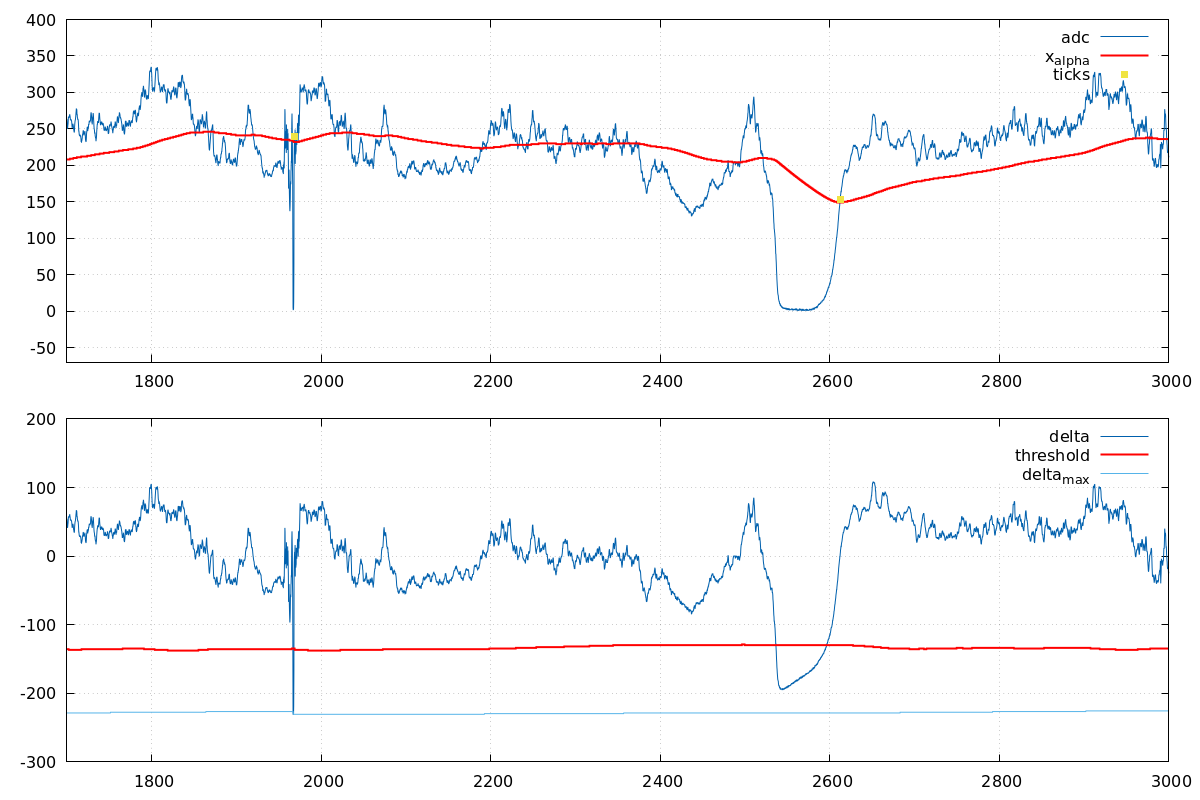
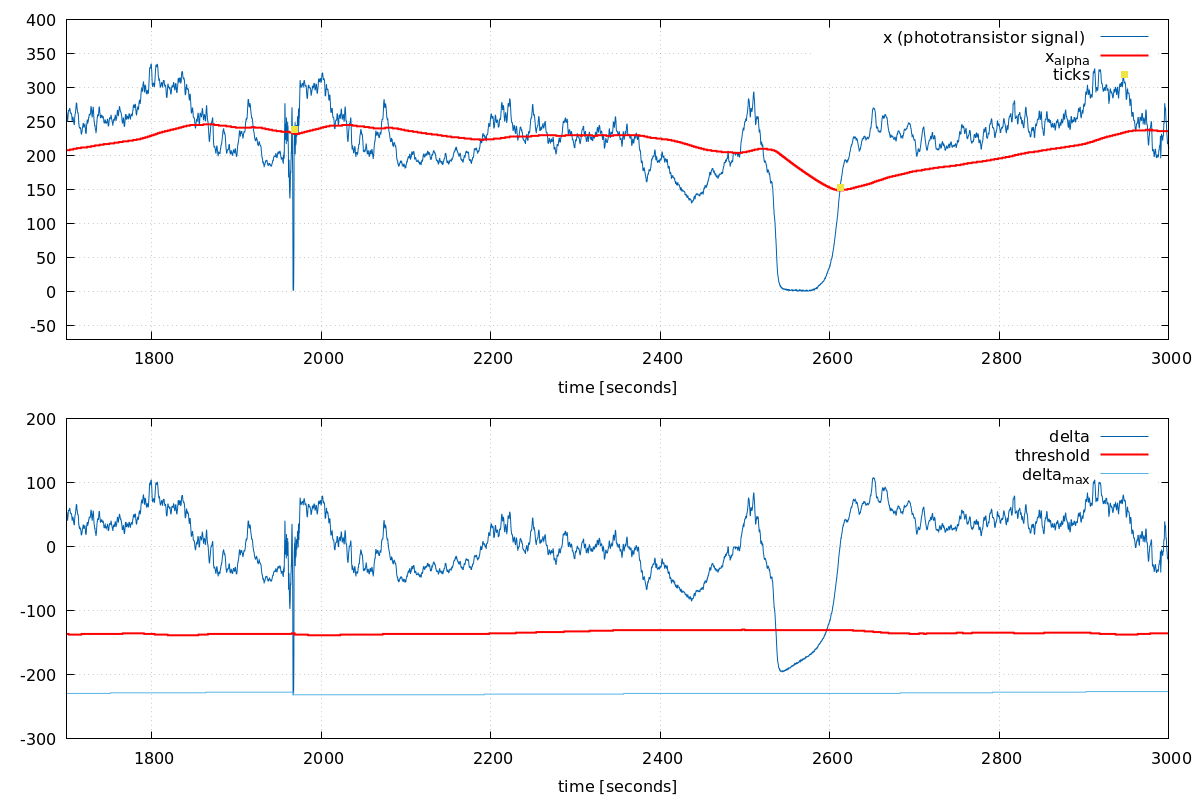
update documentation

diff --git a/embedded/compteur/README.md b/embedded/compteur/README.md
@@ -1,17 +1,17 @@
 # Energy Monitor Project
 
-The goal of that project is to (have fun and) monitor and log my electric energy consumption. The idea would be: I stand in my kitchen, turn on the 2000 W kettle on, and see on my smartphone how many Watts are drawn, in real-time. 
+The goal is to (have fun and) monitor and log the total electric energy consumption in my house. The vision: I stand in my kitchen, turn on the 2000 W kettle on, and see on my smartphone that 2000 more Watts are drawn, in real-time. 
 
 The requirements are the following:
-1. The electricy meter of my house is an old, analog, "Ferraris" meter. It has a rotating metallic disc with a dark mark, as shown [here](https://de.wikipedia.org/wiki/Ferraris-Z%C3%A4hler#/media/Datei:ElectricityMeterMechanism.jpg). We will have to make a sensor to measure the speed of rotation of the disc. We can do this detecting the mark.
-2. This mark detection implies measuring a signal value and comparing it to a threshold. We want the threshold to adapt automatically, no manual adjustment.
-3. The electricy meter is in the entrance of the house, at a place where there is no power outlet. The whole system has to run on batteries and must be **low-power**. Low-power can be achieved putting the microcontroller in deep-sleep most of the time.
-4. The sensor data should be sent per WLAN to a server on a raspberry pi.
+1. The electricy meter of my house is an old, analog, "Ferraris" meter. It has a rotating metallic disc with a mark on its edge, as shown [here](https://de.wikipedia.org/wiki/Ferraris-Z%C3%A4hler#/media/Datei:ElectricityMeterMechanism.jpg). We can estimate the speed of rotation of the disc by *detecting this mark*.
+2. We don't want to adjust any parameter manually. The program should adapt its parameter autonomously (*self-calibration*).
+3. The electricy meter is in the entrance of the house, at a place where there is no power outlet. Therefore, the whole system has to run on batteries and must be **low-power**. Low-power can be achieved putting the microcontroller in deep-sleep most of the time.
+4. The sensor data should be sent *per WLAN* to a server (on a raspberry pi).
 
 #### First Attempts With ESP8266 And TRCT5000
 
-As probably 99% of humanity, I started my project googling `Ferraris electricy meter arduino`. (That's a mistake. Don't google.) In the first result (and many others), the mark is detected with a ready-to-use infrared [TRCT5000](https://www.az-delivery.de/products/linienfolger-modul-mit-tcrt5000-und-analog-ausgang) arduino module. This module has (1) an infrared LED, and (2) a phototransistor that measure the (reflected) light.  Assuming the mark reflects infrared light differently (less or more) than the rest of the disc, we could detect the mark. And since we need WLAN connectivity, it seems obvious to try with a ESP8266 first.
-Unfortunately, my attempt with to use the TRCT500 with ESP8266 failed because the signal-to-noise ratio at the ADC was not good enough to detect the mark reliably. Moreover, the wake-up time of ESP8266 after deep-sleep is quite long (300ms, if I remember well), which make a low-power operation impossible.
+As probably 99% of humanity, I started my project googling `Ferraris electricy meter arduino`. (That's a mistake. Don't do this, don't google.) In the first result (and many others), the mark is detected with a ready-to-use infrared [TRCT5000](https://www.az-delivery.de/products/linienfolger-modul-mit-tcrt5000-und-analog-ausgang) arduino module. This module has (1) an infrared LED, and (2) a phototransistor that measure the (reflected) light.  Assuming the mark reflects infrared light differently than the rest of the disc, we could detect the mark. And since we need WLAN connectivity, it seems obvious to try with a ESP8266 first.
+Unfortunately, my attempt with the TRCT500 with ESP8266 failed because the signal-to-noise ratio at the ADC was not good enough to detect the mark reliably. Moreover, the wake-up time of ESP8266 after deep-sleep is quite long (300ms, if I remember well), which make a low-power operation difficult.
 
 #### Second Attempt With ATmega328P And Custom Phototransistor
 
@@ -21,15 +21,18 @@ The second design is based around an ATmega328P. It includes a self-made sensor 
 
 #### The Sensor
 
-I suspected the TRCT5000 failed because the infrared light is not particularly suitable for my Ferraris meter, because the mark is red, and the rest of the disc is metallic. Sending red light on it would result in reflected red light, with or without the mark, so the phototransistor would deliver the more or less the same signal. 
+I suspected the TRCT5000 failed because the infrared light is not particularly suitable for my Ferraris meter. Its mark is red, and the rest of the disc is metallic. Sending red light on it would result in reflected red light, with or without the mark, so the phototransistor would deliver the more or less the same signal, with or without the mark, offering a poor signal to detect the mark. 
 
 ![sensor](documentation/camera/small/sensor.jpg)
 
-So I had to work with any light, but not red. I ordered a bunch of LED and phototransistor with other wavelengths. I could get a nice contrast with the white LED and SFH 309-4 phototransistor. After tweaking the orientation of the LED and phototransistor, I could get a nice, clean signal. The orientation seems to play a significant role, maybe because the plastic front cover of the Ferraris meter reflects the light. 
+I ordered a bunch of LED and phototransistor with other wavelengths. I could get a most contrast with the white LED and SFH 309-4 phototransistor. After tweaking the orientation of the LED and phototransistor, I could get a nice, clean signal. The orientation seems to play a significant role, maybe because the plastic front cover of the Ferraris meter reflects the light. 
 
-![sensor](documentation/camera/small/LED_off_on.jpg)
+LED turned off (left) and on (right):
+![LED turned off and on](documentation/camera/small/LED_off_on.jpg "LED turned off and on")
 
+Phototansistor ADC output (noted `x` in the sequel)
 ![adc](documentation/adc.png "ADC")
+
 
 _Note_: The influence of ambient light can be compensated by removing an offset to the adc output:
 ```
@@ -39,15 +42,15 @@ where `offset` is the adc output when the LED is turned off.
 
 #### Self-Calibration
 
-To find the threshold, we exploit that there is an abrupt change of the adc values when the mark passes. So we use:
-- A simple low-pass filter of the adc output
+To find the threshold, we exploit that there is an abrupt change in the phototansistor signal when the mark passes. So we use:
+- A simple low-pass filter 
 ```
-xalpha = alpha_1 * xalpha + (1 - alpha_1) * adc;
+xalpha = alpha_1 * xalpha + (1 - alpha_1) * x;
 ```
-Since the mark is only on a short section of the disc, `xalpha` will represent the `adc` value when the mark is not in front of the sensor. The constant `alpha_1` is hard-coded.
-- The difference `delta` between the adc and `xalpha` is large (and below zero) when the mark passes:
+Since the mark is only on a short section of the disc, `xalpha` represents the phototransistor signal level when the mark is not in front of the sensor. (The constant `alpha_1` is hard-coded.)
+- The difference `delta` between `x` and `xalpha` is large (and below zero) when the mark passes:
 ```
-delta = adc - xalpha;
+delta = x - xalpha;
 ```
 
 Now the question: how large is "large" ? 
@@ -59,20 +62,45 @@ In details, we track the mean and the maximum value of delta, `delta_mean` and `
 delta_mean = alpha_2 * delta_mean + (1 - alpha_2) * delta;
 ```
 The constant `alpha_2` is hard-coded.
-- If `delta < delta_max`, then 
 ```
-delta_max = delta
+delta_max = min(delta,alpha_3 * delta_max + (1 - alpha_3) * delta_mean);
 ```
-- otherwise
-```
-delta_max = alpha_3 * delta_max + (1 - alpha_3) * delta;
-```
-The constant `alpha_3` is hard-coded, larger than `alpha_2`.
+The constant `alpha_3` is hard-coded, larger than `alpha_2`. `min()` is used get the largest of negative values. See the source code `detection.cpp` for details.
 
+The graph below shows the values and ticks when the mark is detected:
 ![adc](documentation/calibration.png "ADC")
-See the source code `detection.cpp` for details.
+
 Zoom on the short spike, the mark passed fast, the energy consumption was around 2000W:
 ![adc](documentation/calibration2.png "ADC")
+
+### Low-Power
+
+The main power consumer of the circuit is the LED. It should be turned on as less as possible, just enough to detect the mark when it passes in front on the sensor, and then turned off again. The frequency with which the LED is turned on sets a limit on the speed of rotation of the mark: Assuming we turn the LED on every 100 ms, we might miss it if it remains less than 100ms in front of the sensor. 
+
+### Build Instructions
+
+Assuming the arduino toolchain is configured in `<path>/embedded/cmake/arduino/toolchain.cmake`, build with:
+```
+BUILDDIR=/tmp/build/atmega
+mkdir -p $BUILDDIR 
+cmake -DCMAKE_TOOLCHAIN_FILE=$DIR/embedded/cmake/arduino/toolchain.cmake -B $BUILDDIR 
+make -j3 -C $BUILDDIR
+```
+Please adapt the toolchain file for your setup.
+Similarly, the ESP8266 is build with:
+```
+BUILDDIR=/tmp/build/esp8266
+mkdir -p $BUILDDIR 
+cmake -DCMAKE_TOOLCHAIN_FILE=$DIR/embedded/cmake/esp8266/toolchain.cmake -B $BUILDDIR 
+make -j3 -C $BUILDDIR
+```
+Disclaimer: the build instructions are configured for my setup, that looks like:
+```
+/opt/arduino/ArduinoCore-avr-1.8.2
+/opt/arduino/libraries
+/opt/arduino/libraries/LowPower
+etc.
+```
 
 ### The Results
 

diff --git a/README.md b/README.md
@@ -1,0 +1,3 @@
+Projects:
+- [Energy Monitoring](embedded/compteur/README.md)
+- [GPX Segments Tool](misc/garmin/README.md)
